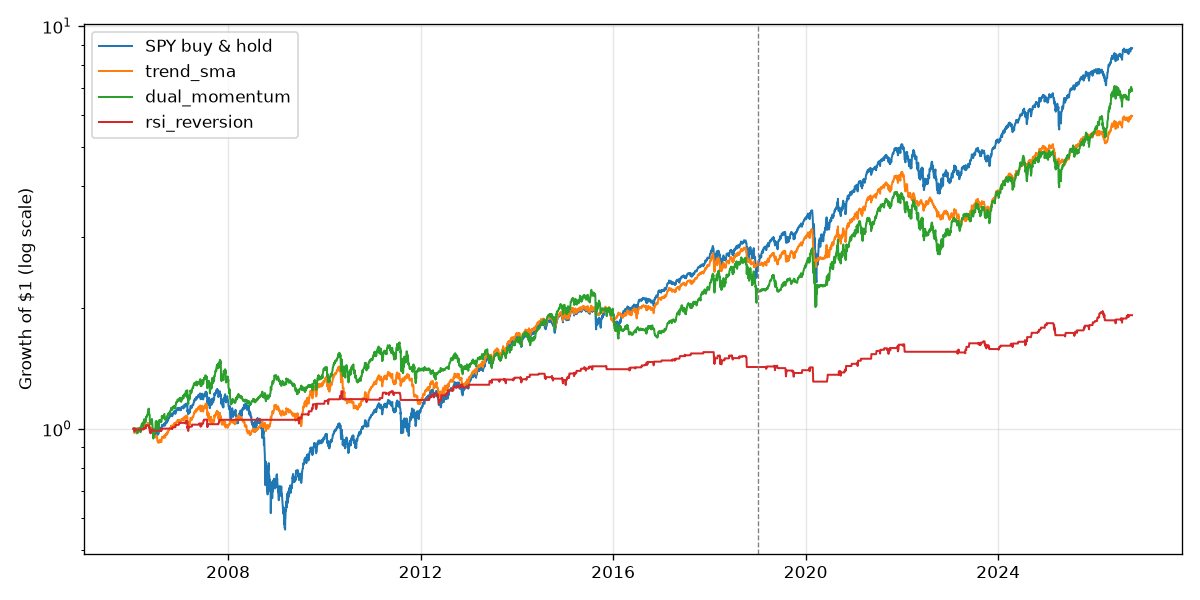
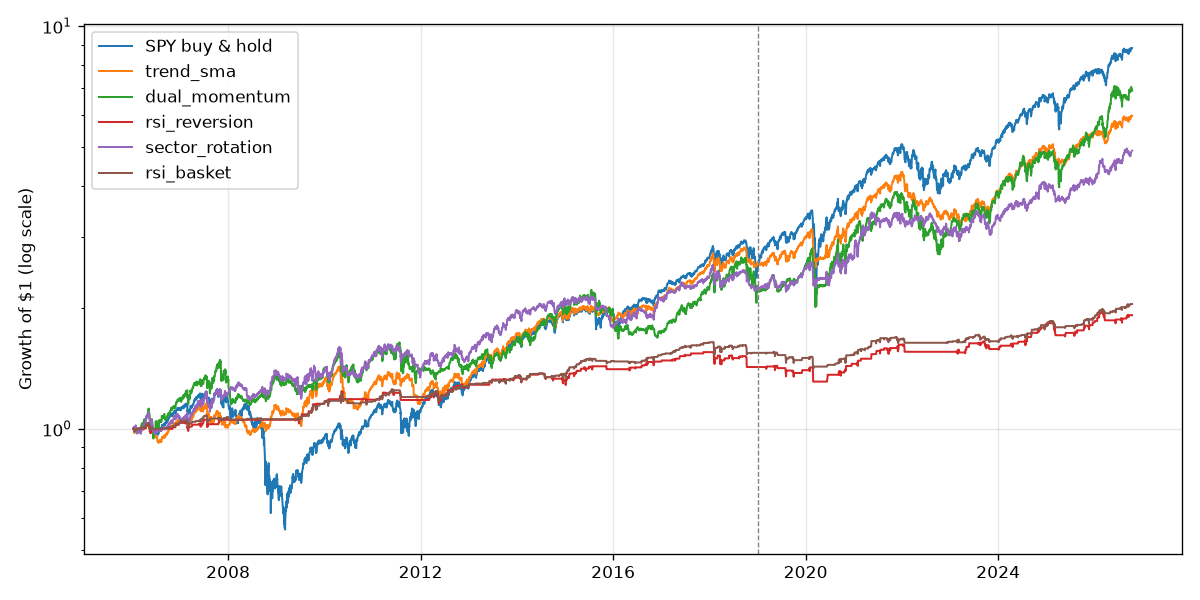
Backtest report 2026-10-13

diff --git a/reports/backtest-2026-10-13.md b/reports/backtest-2026-10-13.md
@@ -9,9 +9,13 @@ In-sample: before 2019-01-01. Out-of-sample: 2019-01-01 onward. Trades are over 
 | trend_sma | in-sample | 157% | 7.6% | 0.67 | -21.9% | 12.0% | 126 |
 | dual_momentum | in-sample | 121% | 6.3% | 0.47 | -24.3% | 15.9% | 59 |
 | rsi_reversion | in-sample | 42% | 2.8% | 0.49 | -8.2% | 5.9% | 320 |
+| sector_rotation | in-sample | 124% | 6.4% | 0.55 | -17.4% | 13.0% | 492 |
+| rsi_basket | in-sample | 54% | 3.4% | 0.65 | -6.8% | 5.4% | 813 |
 | SPY buy & hold | out-of-sample | 249% | 17.5% | 0.93 | -33.7% | 19.2% | - |
 | trend_sma | out-of-sample | 133% | 11.5% | 0.90 | -27.2% | 13.1% | 126 |
 | dual_momentum | out-of-sample | 213% | 15.8% | 0.81 | -30.0% | 20.7% | 59 |
 | rsi_reversion | out-of-sample | 34% | 3.9% | 0.63 | -8.7% | 6.4% | 320 |
+| sector_rotation | out-of-sample | 119% | 10.6% | 0.79 | -15.2% | 13.9% | 492 |
+| rsi_basket | out-of-sample | 32% | 3.7% | 0.69 | -9.3% | 5.5% | 813 |
 
 ![equity curves](backtest-2026-10-13.png)
